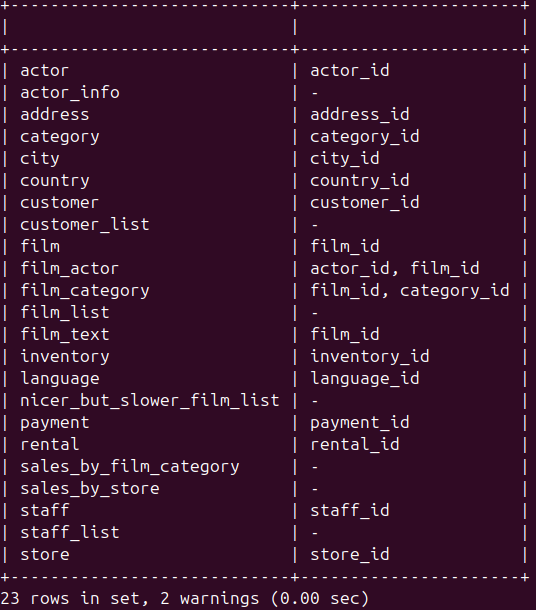
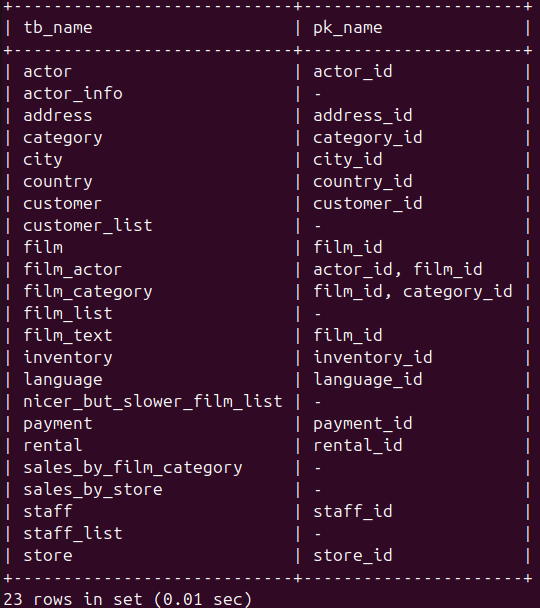
comment

diff --git a/README.md b/README.md
@@ -130,11 +130,11 @@ SHOW TABLES;
 
 ```
 SELECT 
-    tab.table_name AS 'Название таблицы',
+    tab.table_name AS 'tb_name',
     COALESCE(
         GROUP_CONCAT(kcu.column_name ORDER BY kcu.ordinal_position SEPARATOR ', '),
         '-'
-    ) AS 'Название первичного ключа'
+    ) AS 'pk_name'
 FROM 
     information_schema.tables tab
 LEFT JOIN 
@@ -149,7 +149,6 @@ LEFT JOIN
     AND tco.table_name = kcu.table_name
 WHERE 
     tab.table_schema = 'sakila'
-    -- Убираем фильтр по BASE TABLE, чтобы включить представления
 GROUP BY 
     tab.table_name
 ORDER BY 